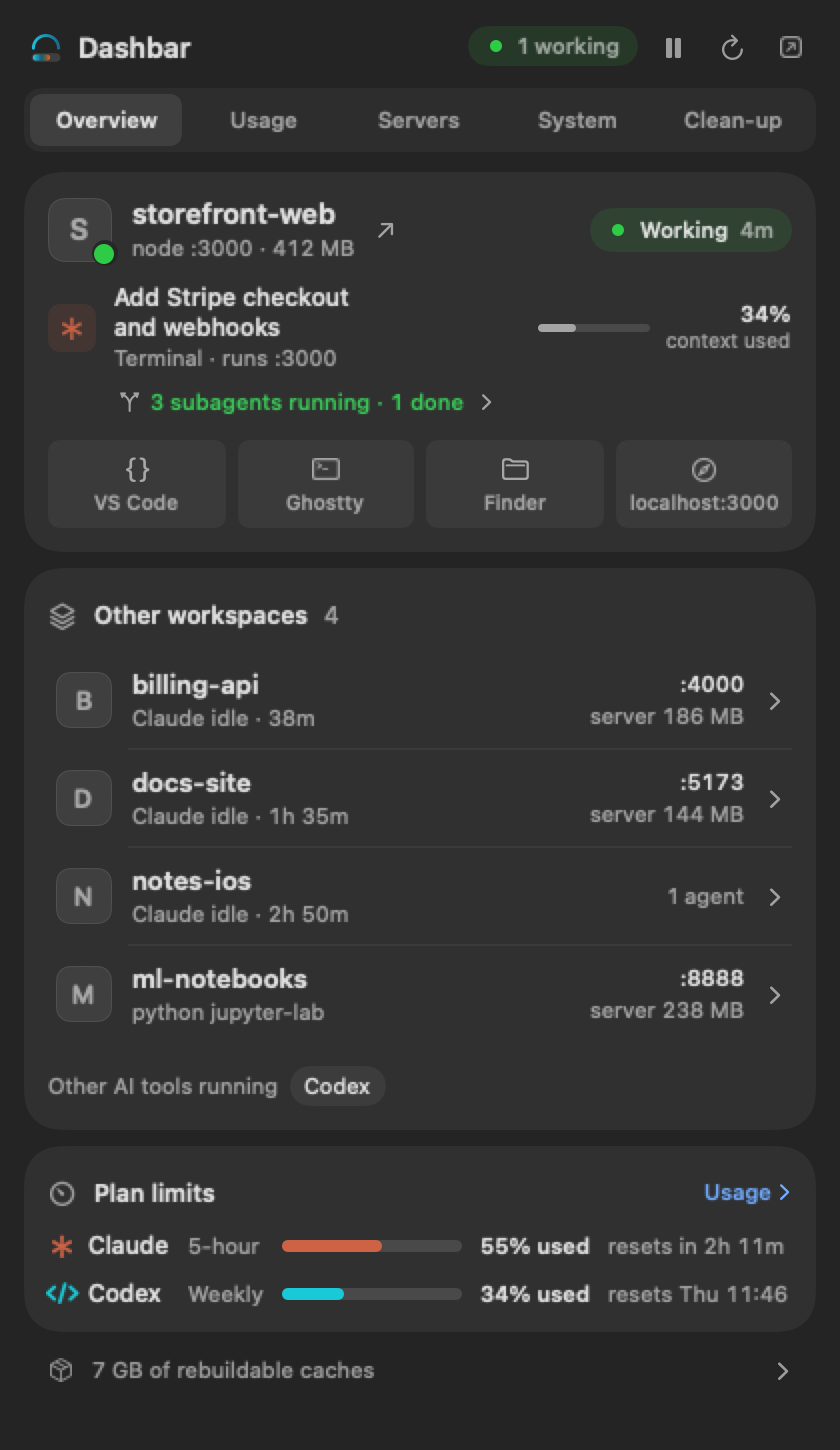
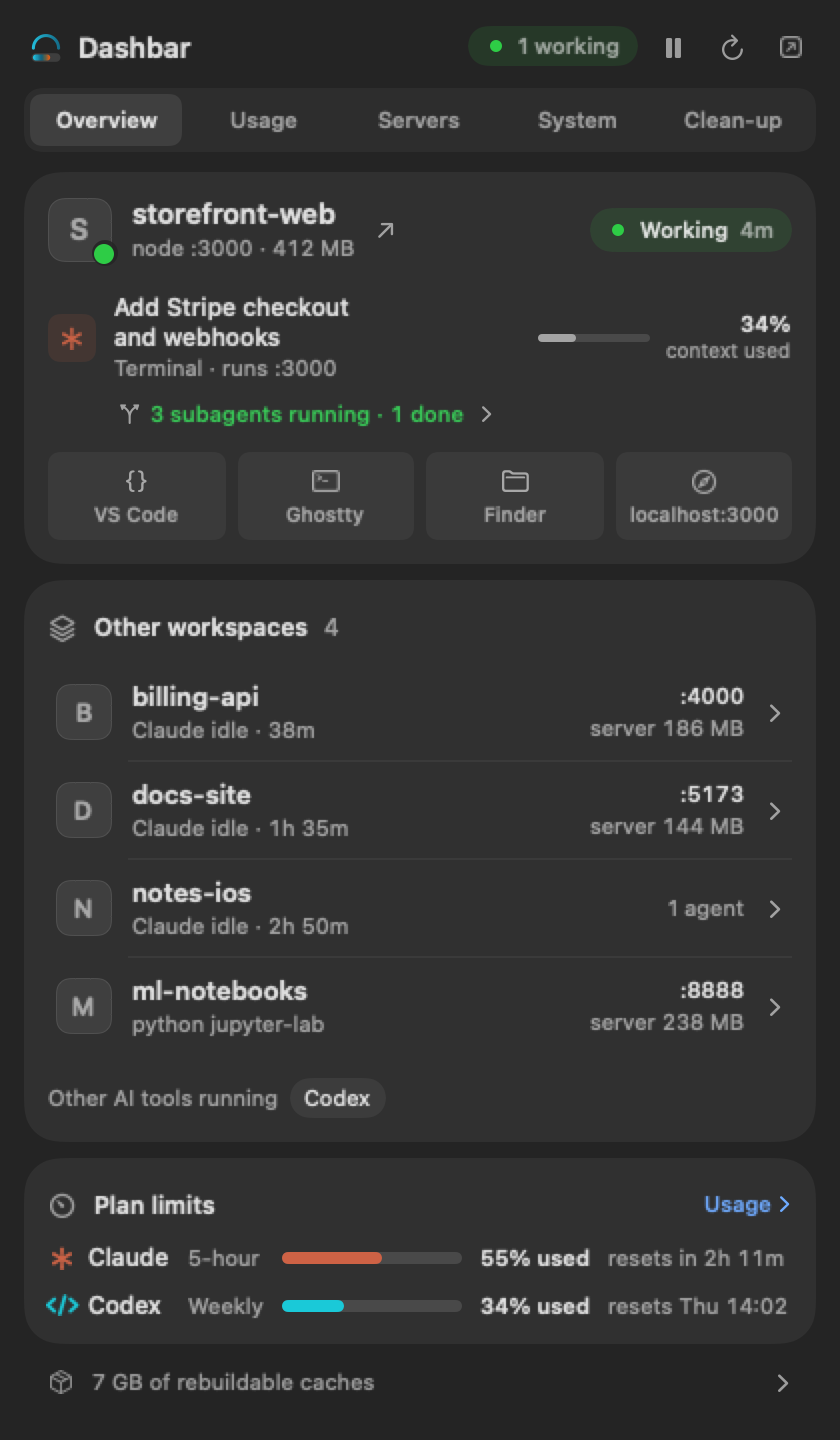
Re-render the Overview pictures and og.png; the site's Now card spacing
The session line's hover room and the smaller braces and copy icons, in the
README pictures and the share image. The site's Now card session line gets the
same 5px above and below (its subagents line moves up to match), and the
agents feature demo's frame grows 10px so its crop lands where it did.

diff --git a/site/src/demos/FeatureDemos.tsx b/site/src/demos/FeatureDemos.tsx
@@ -45,7 +45,7 @@ const AGENTS_REST = { wide: { x: 470, y: 410 }, compact: { x: 300, y: 400 } }
 
 export function AgentsDemo({ dark = false }: Props) {
   return (
-    <Frame height={452} compactHeight={430} initial={{ ask: false, done: false } as A} poster={{ ask: true, done: false } as A} script={agentsScript} cursor={{ at: 'rest', style: 'real' }} theme={dark ? 'dark' : 'light'}>
+    <Frame height={462} compactHeight={440} initial={{ ask: false, done: false } as A} poster={{ ask: true, done: false } as A} script={agentsScript} cursor={{ at: 'rest', style: 'real' }} theme={dark ? 'dark' : 'light'}>
       {(s: A, _r: any, layout: 'wide' | 'compact') => {
         const asking = s.ask && !s.done
         return (

diff --git a/site/src/demos/dashbar-demo.css b/site/src/demos/dashbar-demo.css
@@ -266,6 +266,10 @@
   .dd-session {
     margin-top: 12px;
   }
+  /* The Now card's session line carries room for its hover fill, as the app's does (not the window's agent rows) */
+  .dd-session:not(.wd-agent) {
+    padding: 5px 0;
+  }
   .dd-claude {
     width: 24px;
     height: 24px;
@@ -344,7 +348,7 @@
     display: flex;
     align-items: center;
     gap: 6px;
-    margin: 6px 0 0 34px;
+    margin: 2px 0 0 34px;
     font-size: 12px;
     font-weight: 500;
     color: var(--ss-success-text);
